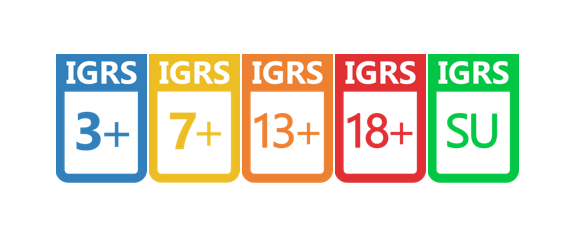
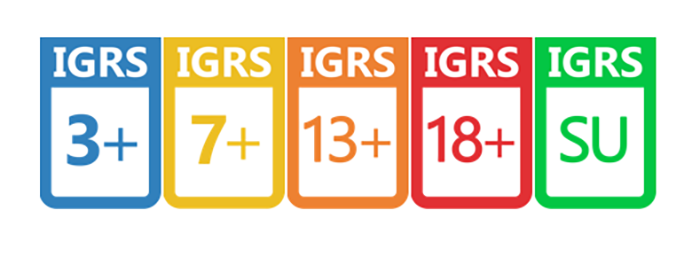
Add dan change images

diff --git a/blog-id/informasi/usia_di_permainan/index.html b/blog-id/informasi/usia_di_permainan/index.html
@@ -145,14 +145,14 @@ Setiap developer dan publisher game memiliki target market yang dituju, dan mere
 <p>Setiap developer dan publisher game memiliki target market yang dituju, dan mereka sangat memperhatikan hal ini ketika menentukan age rating untuk game mereka. Age rating ini didasarkan pada konten yang terdapat dalam game, seperti kekerasan, bahasa kasar, atau konten seksual. Misalnya, jika sebuah game mengandung kekerasan intens, itu akan diberi rating yang lebih tinggi daripada game yang lebih ramah keluarga. Orang tua perlu menyadari bahwa rating ini bukan semata-mata saran, melainkan pedoman yang penting untuk memilih game yang tepat untuk anak-anak mereka.</p>
 <h2 id="international-age-rating-coalition-iarc">International Age Rating Coalition (IARC)</h2>
 <p>International Age Rating Coalition (IARC) adalah badan yang mengkoordinasikan berbagai sistem age rating di seluruh dunia. IARC menyatukan sistem-sistem rating yang digunakan oleh negara-negara seperti Amerika Serikat, Eropa, Australia, dan sebagainya. Tujuannya adalah untuk menyediakan panduan yang konsisten dan terstandarisasi bagi orang tua dan pengguna game dalam memilih game yang sesuai dengan usia.</p>
-<p><img src="https://armanwu.github.io/blog-id/informasi/image/PEGI.png" alt="PEGI"></p>
+<p><img src="https://armanwu.github.io/blog-id/informasi/image/PEGI.png" alt="PEGI" title="Kategori game menurut PEGI"></p>
 <p>Salah satu sistem age rating yang cukup populer adalah Pan European Game Information (PEGI). PEGI digunakan di sebagian besar negara Eropa dan memberikan rating berdasarkan konten yang terdapat dalam game, seperti kekerasan, bahasa kasar, atau konten seksual. Rating PEGI terdiri dari kategori usia, mulai dari 3 tahun (PEGI 3) hingga 18 tahun (PEGI 18), dengan penjelasan tentang alasan rating tersebut.</p>
-<p><img src="https://armanwu.github.io/blog-id/informasi/image/ESRB.png" alt="ESRB"></p>
+<p><img src="https://armanwu.github.io/blog-id/informasi/image/ESRB.png" alt="ESRB" title="Kategori game menurut ESRB"></p>
 <p>Sistem age rating lain yang dikenal secara internasional adalah Entertainment Software Rating Board (ESRB), yang digunakan di Amerika Utara. ESRB memberikan rating yang mirip dengan PEGI, dengan kategori usia seperti Everyone (E), Teen (T), Mature (M), dan lain-lain. ESRB juga memberikan informasi tentang konten yang mungkin menjadi perhatian, seperti kekerasan, bahasa kasar, atau konten dewasa.</p>
 <h2 id="indonesia-game-rating-system-igrs">Indonesia Game Rating System (IGRS)</h2>
 <p>Selain sistem age rating yang sudah dikenal secara internasional, ada juga Indonesia Game Rating System (IGRS). IGRS adalah sistem age rating yang diperkenalkan di Indonesia untuk memberikan panduan kepada orang tua dan pengguna game lainnya mengenai konten dan usia yang sesuai untuk game. Lingkup IGRS saat ini masih terbatas pada game-game lokal di Indonesia. Hal ini berarti bahwa game-game populer internasional yang diproduksi oleh developer di luar Indonesia kemungkinan tidak memiliki rating IGRS. Sebagai contoh, game-game populer seperti Fortnite, Call of Duty, atau FIFA mungkin tidak memiliki rating IGRS yang dapat membantu orang tua dalam memilih game untuk anak-anak mereka.</p>
 <p>Kelemahan ini menunjukkan bahwa masih ada kebutuhan untuk meningkatkan cakupan dan ketersediaan IGRS agar dapat mencakup game-game internasional yang populer di Indonesia. Hal ini akan memungkinkan orang tua untuk memperoleh informasi yang lebih komprehensif tentang konten dan usia yang sesuai untuk game-game yang dimainkan oleh anak-anak mereka.</p>
-<p><img src="https://armanwu.github.io/blog-id/informasi/image/IGRS.png" alt="IGRS"></p>
+<p><img src="https://armanwu.github.io/blog-id/informasi/image/IGRS.png" alt="IGRS" title="Kategori game menurut IGRS"></p>
 <p>Meskipun demikian, IGRS masih merupakan langkah positif dalam meningkatkan kesadaran tentang age rating di Indonesia dan memberikan panduan kepada orang tua. Orang tua tetap dapat memanfaatkan sistem ini untuk mendapatkan informasi mengenai game-game lokal yang ada di pasaran Indonesia. Namun, disarankan agar orang tua juga menggabungkan pemahaman tentang sistem age rating internasional yang sudah teruji dan diterima secara global, seperti PEGI atau ESRB, untuk memperoleh pandangan yang lebih lengkap dalam memilih game yang sesuai untuk anak-anak mereka.</p>
 <h2 id="kesimpulan">Kesimpulan</h2>
 <p>Dengan memahami age rating dan mengambil langkah-langkah yang tepat, orang tua dapat menjadi pendamping yang cerdas dan membantu anak-anak mereka memilih game dengan bijaksana. Ingatlah bahwa penting untuk melindungi anak-anak dari konten yang tidak sesuai dengan usia mereka dan memastikan mereka dapat menikmati dunia gaming secara positif dan aman.</p>
